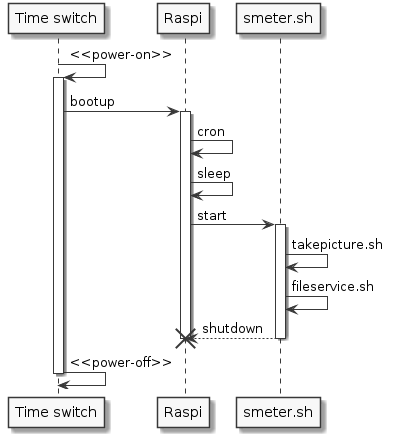
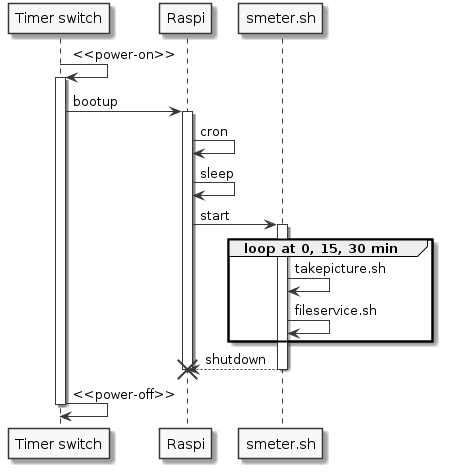
Updated scheduling concept

Changed region(s): [[0.0, 0.0, 0.9746, 0.9933], [0.335, 0.8764, 0.8528, 0.9933], [0.6091, 0.2921, 0.6396, 0.3213]]

diff --git a/docs/categories/index.html b/docs/categories/index.html
@@ -254,7 +254,7 @@ body {
 <p>The project is less on the hardware side, rather it focusses on software for</p>
 
 <ul>
-<li>reliably taking pictures</li>
+<li>reliably taking pictures in 15 minutes intervals</li>
 <li>data management across various systems at home as well as on the Internet</li>
 <li>AI based optical character recognition</li>
 <li>unattended operation</li>
@@ -400,11 +400,13 @@ img {
 
 <h3 id="scheduling">Scheduling</h3>
 
-<p>An external time switch powers-on the Raspberry Pi at pre-defined time. After the reboot the crontab runs the central control script <a href="https://github.com/cdeck3r/SmartMeter/blob/master/raspi/smeter.sh"><code>smeter.sh</code></a>, which takes the pictures (<code>takepicture.sh</code>) and uploads them to Dropbox (<code>fileservice.sh</code>). At the end, the script shuts down the Raspberry Pi. At a later time, the external time switch powers-off. The following figure depicts the schedule.</p>
+<p>An external timer switch powers-on the Raspberry Pi at pre-defined time. After the reboot the crontab runs the central control script <a href="https://github.com/cdeck3r/SmartMeter/blob/master/raspi/smeter.sh"><code>smeter.sh</code></a>, which takes the pictures (<code>takepicture.sh</code>) and uploads them to Dropbox (<code>fileservice.sh</code>). At the end, the script shuts down the Raspberry Pi. At a later time, the external timer switch powers-off.</p>
+
+<p>The timer switch has only 28 slots for defining on and off times. This is not sufficient for 15 min intervals. As a result, we define a coarse-grained duty cycle  of 50% within 1 hour, which consists of 30 min power-on duty and 30 min when the Raspberry is powered off. In the power-on duty time, the <code>smeter.sh</code> control script performs three measurement activities at 0, 15, 30 min after the start. The exact schedule deviates a bit from this description in order to leave time for measurement activities to take place before the external timer switch powers-off. The following figure depicts the schedule.</p>
 
 <p><img src="uml/sd_schedule.png" alt="SmartMeter software on Raspi" /></p>
 
-<p>The schedule repeats as soon as the external time switch again powers-on the Raspberry Pi.</p>
+<p>The schedule repeats as soon as the external timer switch powers-on the Raspberry Pi again.</p>
 
 <h3 id="maintenance-mode">Maintenance Mode</h3>
 

diff --git a/docs/imprint-gdpr/index.html b/docs/imprint-gdpr/index.html
@@ -254,7 +254,7 @@ body {
 <p>The project is less on the hardware side, rather it focusses on software for</p>
 
 <ul>
-<li>reliably taking pictures</li>
+<li>reliably taking pictures in 15 minutes intervals</li>
 <li>data management across various systems at home as well as on the Internet</li>
 <li>AI based optical character recognition</li>
 <li>unattended operation</li>
@@ -400,11 +400,13 @@ img {
 
 <h3 id="scheduling">Scheduling</h3>
 
-<p>An external time switch powers-on the Raspberry Pi at pre-defined time. After the reboot the crontab runs the central control script <a href="https://github.com/cdeck3r/SmartMeter/blob/master/raspi/smeter.sh"><code>smeter.sh</code></a>, which takes the pictures (<code>takepicture.sh</code>) and uploads them to Dropbox (<code>fileservice.sh</code>). At the end, the script shuts down the Raspberry Pi. At a later time, the external time switch powers-off. The following figure depicts the schedule.</p>
+<p>An external timer switch powers-on the Raspberry Pi at pre-defined time. After the reboot the crontab runs the central control script <a href="https://github.com/cdeck3r/SmartMeter/blob/master/raspi/smeter.sh"><code>smeter.sh</code></a>, which takes the pictures (<code>takepicture.sh</code>) and uploads them to Dropbox (<code>fileservice.sh</code>). At the end, the script shuts down the Raspberry Pi. At a later time, the external timer switch powers-off.</p>
+
+<p>The timer switch has only 28 slots for defining on and off times. This is not sufficient for 15 min intervals. As a result, we define a coarse-grained duty cycle  of 50% within 1 hour, which consists of 30 min power-on duty and 30 min when the Raspberry is powered off. In the power-on duty time, the <code>smeter.sh</code> control script performs three measurement activities at 0, 15, 30 min after the start. The exact schedule deviates a bit from this description in order to leave time for measurement activities to take place before the external timer switch powers-off. The following figure depicts the schedule.</p>
 
 <p><img src="uml/sd_schedule.png" alt="SmartMeter software on Raspi" /></p>
 
-<p>The schedule repeats as soon as the external time switch again powers-on the Raspberry Pi.</p>
+<p>The schedule repeats as soon as the external timer switch powers-on the Raspberry Pi again.</p>
 
 <h3 id="maintenance-mode">Maintenance Mode</h3>
 

diff --git a/docs/index.html b/docs/index.html
@@ -293,7 +293,7 @@ body {
 <p>The project is less on the hardware side, rather it focusses on software for</p>
 
 <ul>
-<li>reliably taking pictures</li>
+<li>reliably taking pictures in 15 minutes intervals</li>
 <li>data management across various systems at home as well as on the Internet</li>
 <li>AI based optical character recognition</li>
 <li>unattended operation</li>
@@ -439,11 +439,13 @@ img {
 
 <h3 id="scheduling">Scheduling</h3>
 
-<p>An external time switch powers-on the Raspberry Pi at pre-defined time. After the reboot the crontab runs the central control script <a href="https://github.com/cdeck3r/SmartMeter/blob/master/raspi/smeter.sh"><code>smeter.sh</code></a>, which takes the pictures (<code>takepicture.sh</code>) and uploads them to Dropbox (<code>fileservice.sh</code>). At the end, the script shuts down the Raspberry Pi. At a later time, the external time switch powers-off. The following figure depicts the schedule.</p>
+<p>An external timer switch powers-on the Raspberry Pi at pre-defined time. After the reboot the crontab runs the central control script <a href="https://github.com/cdeck3r/SmartMeter/blob/master/raspi/smeter.sh"><code>smeter.sh</code></a>, which takes the pictures (<code>takepicture.sh</code>) and uploads them to Dropbox (<code>fileservice.sh</code>). At the end, the script shuts down the Raspberry Pi. At a later time, the external timer switch powers-off.</p>
+
+<p>The timer switch has only 28 slots for defining on and off times. This is not sufficient for 15 min intervals. As a result, we define a coarse-grained duty cycle  of 50% within 1 hour, which consists of 30 min power-on duty and 30 min when the Raspberry is powered off. In the power-on duty time, the <code>smeter.sh</code> control script performs three measurement activities at 0, 15, 30 min after the start. The exact schedule deviates a bit from this description in order to leave time for measurement activities to take place before the external timer switch powers-off. The following figure depicts the schedule.</p>
 
 <p><img src="uml/sd_schedule.png" alt="SmartMeter software on Raspi" /></p>
 
-<p>The schedule repeats as soon as the external time switch again powers-on the Raspberry Pi.</p>
+<p>The schedule repeats as soon as the external timer switch powers-on the Raspberry Pi again.</p>
 
 <h3 id="maintenance-mode">Maintenance Mode</h3>
 

diff --git a/docs/post/index.html b/docs/post/index.html
@@ -254,7 +254,7 @@ body {
 <p>The project is less on the hardware side, rather it focusses on software for</p>
 
 <ul>
-<li>reliably taking pictures</li>
+<li>reliably taking pictures in 15 minutes intervals</li>
 <li>data management across various systems at home as well as on the Internet</li>
 <li>AI based optical character recognition</li>
 <li>unattended operation</li>
@@ -400,11 +400,13 @@ img {
 
 <h3 id="scheduling">Scheduling</h3>
 
-<p>An external time switch powers-on the Raspberry Pi at pre-defined time. After the reboot the crontab runs the central control script <a href="https://github.com/cdeck3r/SmartMeter/blob/master/raspi/smeter.sh"><code>smeter.sh</code></a>, which takes the pictures (<code>takepicture.sh</code>) and uploads them to Dropbox (<code>fileservice.sh</code>). At the end, the script shuts down the Raspberry Pi. At a later time, the external time switch powers-off. The following figure depicts the schedule.</p>
+<p>An external timer switch powers-on the Raspberry Pi at pre-defined time. After the reboot the crontab runs the central control script <a href="https://github.com/cdeck3r/SmartMeter/blob/master/raspi/smeter.sh"><code>smeter.sh</code></a>, which takes the pictures (<code>takepicture.sh</code>) and uploads them to Dropbox (<code>fileservice.sh</code>). At the end, the script shuts down the Raspberry Pi. At a later time, the external timer switch powers-off.</p>
+
+<p>The timer switch has only 28 slots for defining on and off times. This is not sufficient for 15 min intervals. As a result, we define a coarse-grained duty cycle  of 50% within 1 hour, which consists of 30 min power-on duty and 30 min when the Raspberry is powered off. In the power-on duty time, the <code>smeter.sh</code> control script performs three measurement activities at 0, 15, 30 min after the start. The exact schedule deviates a bit from this description in order to leave time for measurement activities to take place before the external timer switch powers-off. The following figure depicts the schedule.</p>
 
 <p><img src="uml/sd_schedule.png" alt="SmartMeter software on Raspi" /></p>
 
-<p>The schedule repeats as soon as the external time switch again powers-on the Raspberry Pi.</p>
+<p>The schedule repeats as soon as the external timer switch powers-on the Raspberry Pi again.</p>
 
 <h3 id="maintenance-mode">Maintenance Mode</h3>
 

diff --git a/docs/tags/index.html b/docs/tags/index.html
@@ -254,7 +254,7 @@ body {
 <p>The project is less on the hardware side, rather it focusses on software for</p>
 
 <ul>
-<li>reliably taking pictures</li>
+<li>reliably taking pictures in 15 minutes intervals</li>
 <li>data management across various systems at home as well as on the Internet</li>
 <li>AI based optical character recognition</li>
 <li>unattended operation</li>
@@ -400,11 +400,13 @@ img {
 
 <h3 id="scheduling">Scheduling</h3>
 
-<p>An external time switch powers-on the Raspberry Pi at pre-defined time. After the reboot the crontab runs the central control script <a href="https://github.com/cdeck3r/SmartMeter/blob/master/raspi/smeter.sh"><code>smeter.sh</code></a>, which takes the pictures (<code>takepicture.sh</code>) and uploads them to Dropbox (<code>fileservice.sh</code>). At the end, the script shuts down the Raspberry Pi. At a later time, the external time switch powers-off. The following figure depicts the schedule.</p>
+<p>An external timer switch powers-on the Raspberry Pi at pre-defined time. After the reboot the crontab runs the central control script <a href="https://github.com/cdeck3r/SmartMeter/blob/master/raspi/smeter.sh"><code>smeter.sh</code></a>, which takes the pictures (<code>takepicture.sh</code>) and uploads them to Dropbox (<code>fileservice.sh</code>). At the end, the script shuts down the Raspberry Pi. At a later time, the external timer switch powers-off.</p>
+
+<p>The timer switch has only 28 slots for defining on and off times. This is not sufficient for 15 min intervals. As a result, we define a coarse-grained duty cycle  of 50% within 1 hour, which consists of 30 min power-on duty and 30 min when the Raspberry is powered off. In the power-on duty time, the <code>smeter.sh</code> control script performs three measurement activities at 0, 15, 30 min after the start. The exact schedule deviates a bit from this description in order to leave time for measurement activities to take place before the external timer switch powers-off. The following figure depicts the schedule.</p>
 
 <p><img src="uml/sd_schedule.png" alt="SmartMeter software on Raspi" /></p>
 
-<p>The schedule repeats as soon as the external time switch again powers-on the Raspberry Pi.</p>
+<p>The schedule repeats as soon as the external timer switch powers-on the Raspberry Pi again.</p>
 
 <h3 id="maintenance-mode">Maintenance Mode</h3>
 

diff --git a/docs/post/10_raspi_software/index.html b/docs/post/10_raspi_software/index.html
@@ -135,11 +135,13 @@ img {
 
 <h3 id="scheduling">Scheduling</h3>
 
-<p>An external time switch powers-on the Raspberry Pi at pre-defined time. After the reboot the crontab runs the central control script <a href="https://github.com/cdeck3r/SmartMeter/blob/master/raspi/smeter.sh"><code>smeter.sh</code></a>, which takes the pictures (<code>takepicture.sh</code>) and uploads them to Dropbox (<code>fileservice.sh</code>). At the end, the script shuts down the Raspberry Pi. At a later time, the external time switch powers-off. The following figure depicts the schedule.</p>
+<p>An external timer switch powers-on the Raspberry Pi at pre-defined time. After the reboot the crontab runs the central control script <a href="https://github.com/cdeck3r/SmartMeter/blob/master/raspi/smeter.sh"><code>smeter.sh</code></a>, which takes the pictures (<code>takepicture.sh</code>) and uploads them to Dropbox (<code>fileservice.sh</code>). At the end, the script shuts down the Raspberry Pi. At a later time, the external timer switch powers-off.</p>
+
+<p>The timer switch has only 28 slots for defining on and off times. This is not sufficient for 15 min intervals. As a result, we define a coarse-grained duty cycle  of 50% within 1 hour, which consists of 30 min power-on duty and 30 min when the Raspberry is powered off. In the power-on duty time, the <code>smeter.sh</code> control script performs three measurement activities at 0, 15, 30 min after the start. The exact schedule deviates a bit from this description in order to leave time for measurement activities to take place before the external timer switch powers-off. The following figure depicts the schedule.</p>
 
 <p><img src="uml/sd_schedule.png" alt="SmartMeter software on Raspi" /></p>
 
-<p>The schedule repeats as soon as the external time switch again powers-on the Raspberry Pi.</p>
+<p>The schedule repeats as soon as the external timer switch powers-on the Raspberry Pi again.</p>
 
 <h3 id="maintenance-mode">Maintenance Mode</h3>
 

diff --git a/docs/post/02_project/index.html b/docs/post/02_project/index.html
@@ -135,7 +135,7 @@ body {
 <p>The project is less on the hardware side, rather it focusses on software for</p>
 
 <ul>
-<li>reliably taking pictures</li>
+<li>reliably taking pictures in 15 minutes intervals</li>
 <li>data management across various systems at home as well as on the Internet</li>
 <li>AI based optical character recognition</li>
 <li>unattended operation</li>

diff --git a/docs_site/content/post/10_raspi_software.md b/docs_site/content/post/10_raspi_software.md
@@ -18,11 +18,13 @@ The SmartMeter software runs on the Raspberry Pi. It takes pictures and uploads 
 
 ### Scheduling
 
-An external time switch powers-on the Raspberry Pi at pre-defined time. After the reboot the crontab runs the central control script [`smeter.sh`](https://github.com/cdeck3r/SmartMeter/blob/master/raspi/smeter.sh), which takes the pictures (`takepicture.sh`) and uploads them to Dropbox (`fileservice.sh`). At the end, the script shuts down the Raspberry Pi. At a later time, the external time switch powers-off. The following figure depicts the schedule.
+An external timer switch powers-on the Raspberry Pi at pre-defined time. After the reboot the crontab runs the central control script [`smeter.sh`](https://github.com/cdeck3r/SmartMeter/blob/master/raspi/smeter.sh), which takes the pictures (`takepicture.sh`) and uploads them to Dropbox (`fileservice.sh`). At the end, the script shuts down the Raspberry Pi. At a later time, the external timer switch powers-off. 
+
+The timer switch has only 28 slots for defining on and off times. This is not sufficient for 15 min intervals. We define a coarse-grained duty cycle of 50% within 1 hour, which consists of 30 min power-on duty and 30 min when the Raspberry is powered off. In the power-on duty time, the `smeter.sh` control script performs three measurement activities at 0, 15, 30 min after the start. This schedule achieves three 15 min intervals and leaves out one within a hour. The exact schedule deviates a bit from this description in order to leave time for measurement activities to take place before the external timer switch powers-off. The following figure depicts the schedule.
 
 <img src="uml/sd_schedule.png" alt="SmartMeter software on Raspi" />
 
-The schedule repeats as soon as the external time switch again powers-on the Raspberry Pi.
+The schedule repeats as soon as the external timer switch powers-on the Raspberry Pi again.
 
 
 ### Maintenance Mode

diff --git a/docs_site/content/post/02_project.md b/docs_site/content/post/02_project.md
@@ -16,7 +16,7 @@ Our goal is to improve our energy footprint. Therefore, SmartMeter aims for a fi
 
 The project is less on the hardware side, rather it focusses on software for 
 
-* reliably taking pictures
+* reliably taking pictures in 15 minutes intervals
 * data management across various systems at home as well as on the Internet
 * AI based optical character recognition
 * unattended operation
